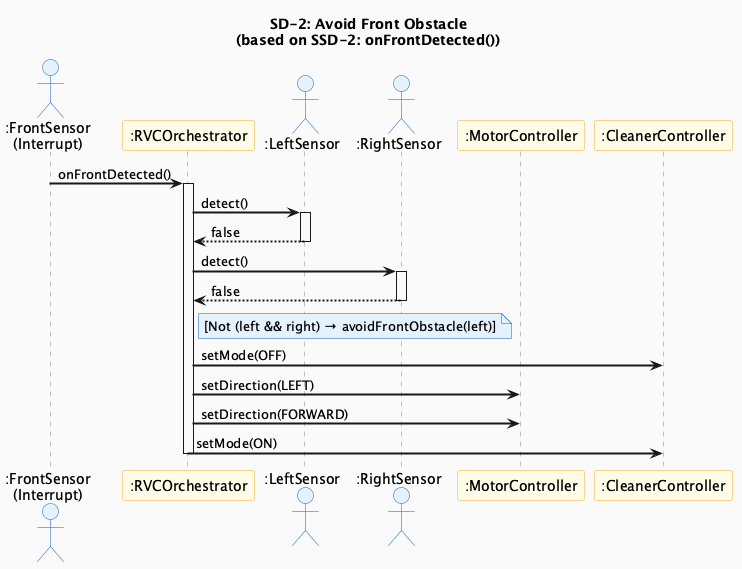
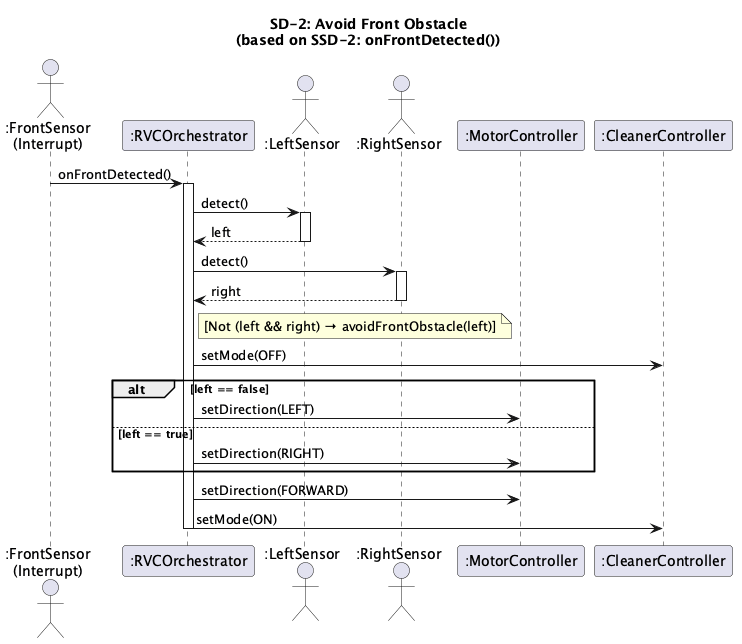
fix(ood): Add alt fragments to SD-2/SD-3 and align variable names with code

diff --git a/docs/vibe-coding/04-ooi/code/src/RVCOrchestrator.cpp b/docs/vibe-coding/04-ooi/code/src/RVCOrchestrator.cpp
@@ -54,8 +54,8 @@ void RVCOrchestrator::avoidAllObstacles() {
     cleaner.setMode(CleanMode::OFF);
     motor.setDirection(Direction::BACKWARD);
 
-    bool left = leftSensor.detect();
-    if (!left) {
+    bool leftBlocked = leftSensor.detect();
+    if (!leftBlocked) {
         motor.setDirection(Direction::LEFT);
     } else {
         motor.setDirection(Direction::RIGHT);
